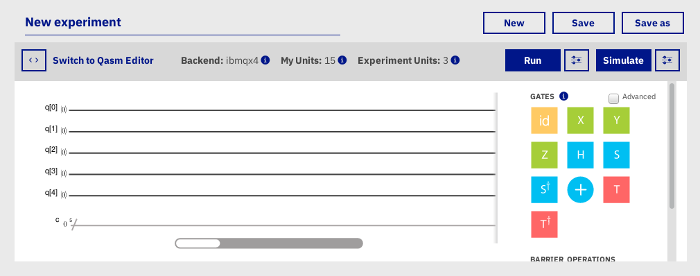
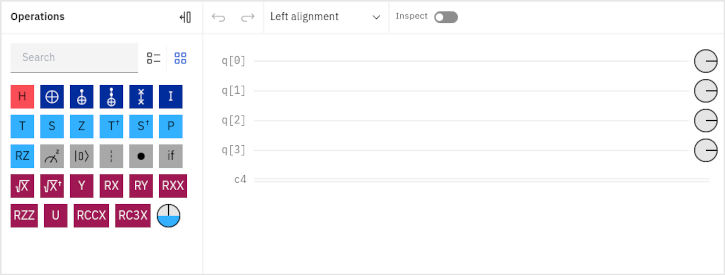
Mise à jour IBM quantum experience

diff --git a/README.md b/README.md
@@ -262,16 +262,16 @@ Après inscription, on accède à une page d'accueil depuis laquelle on peut lan
 
 Sur cette page, nous trouvons :
 
-- Les lignes horizontales correspondant aux **5 qubits** dont nous disposons.
-- A droite, nous trouvons les **portes logiques** que nous plaçons par *drag & drop*.
+- Les lignes horizontales correspondant aux **4 qubits** dont nous disposons.
+- A gauche, nous trouvons les **portes logiques** que nous plaçons par *drag & drop*.
 
-Les **qubits** sont tous initialement à l'état *|0>*. Nous pouvons changer leur état avec la porte **X** qui inverse l'état d'un qubit.
+Les **qubits** sont tous initialement à l'état *|0>*. Nous pouvons changer leur état avec la porte **X** (représentée par un + dans un cercle) qui inverse l'état d'un qubit.
 
-De plus, il faut toujours **effectuer une mesure** à la fin de notre partition pour pouvoir l'exécuter.
+Une **mesure est effectuée** à la droite de la partition automatiquement. Nous voyons le résultat de cette mesure en bas à gauche de l'écran.
 
-Lorsque nous effectuons une mesure, nous obtenons le résultat sous forme d'un **bit classique**. Nous disposons ainsi de 5 qubits et 5 cbits, les bits classiques qui contiennent le résultat de notre calcul.
+Lorsque nous effectuons une mesure, nous obtenons le résultat sous forme d'un **bit classique**. Nous disposons ainsi de 4 qubits et 4 cbits, les bits classiques qui contiennent le résultat de notre calcul.
 
-Lorsque nous avons composé notre partition, nous pouvons l'exécuter sur un **simulateur** ou sur un **processeur quantique**.
+Lorsque nous composons notre partition, le résultat issu d'une **simulation** est affiché automatiquement. Pour effectuer le calcul sur un véritable **processeur quantique**, nous devons cliquer sur **Setup and run**.
 
 ---
 ### Exemple de partition
@@ -280,7 +280,7 @@ Par exemple, si nous voulons laisser le premier qubit à l'état *|0>* et faire 
 
 ![](img/partition-1.png)
 
-Après avoir cliqué sur **Simulate**, nous obtenons la page suivante :
+Nous obtenons alors le résultat suivant :
 
 ---
 ### Exemple de résultat
@@ -289,8 +289,8 @@ Après avoir cliqué sur **Simulate**, nous obtenons la page suivante :
 
 Ce résultat se présente sous la forme d'un histogramme où :
 
-- **00010** est l'état des 5 qubits.
-- **1.000** est la proportion de ce résultat.
+- **0010** est l'état des 4 qubits.
+- **100** est la probabilité de ce résultat en %.
 
 Dans la représentation de l'état après la mesure, le premier qubit est le plus à droite.
 
@@ -312,7 +312,7 @@ Nous mesurons bien (quasiment) autant de *|0>* que de *|1>*.
 ---
 ### Porte quantique multiple
 
-Pour pouvoir réaliser des calculs intéressants, il nous faut disposer de portes capables de réaliser des opérations **conditionnelles**. C'est le cas de la porte **CNOT** (pour *controlled not*) qui inverse l'état du qubit du haut si celui du bas est à *|1>* et ne fait rien sinon.
+Pour pouvoir réaliser des calculs intéressants, il nous faut disposer de portes capables de réaliser des opérations **conditionnelles**. C'est le cas de la porte **CNOT** (pour *controlled not*) qui inverse l'état du qubit du bas si celui du haut est à *|1>* et ne fait rien sinon.
 
 ![](img/partition-3.png)
 
@@ -341,8 +341,7 @@ Voici un exemple d'algorithme quantique qui permet de réaliser une recherche av
 - La dernière partie est exécutée √n fois pour amplifier la valeur recherchée et atténuer les autres par un procédé appelé **amplification d'amplitude**.
 
 ---
-Implémentations d'ordinateurs quantiques
-----------------------------------------
+## Implémentations d'ordinateurs quantiques
 
 Pour implémenter des qubits utilisables pour le calcul, il faut être capable de réaliser un **système macroscopique ayant des propriétés quantiques** pendant un temps suffisamment long.
 
